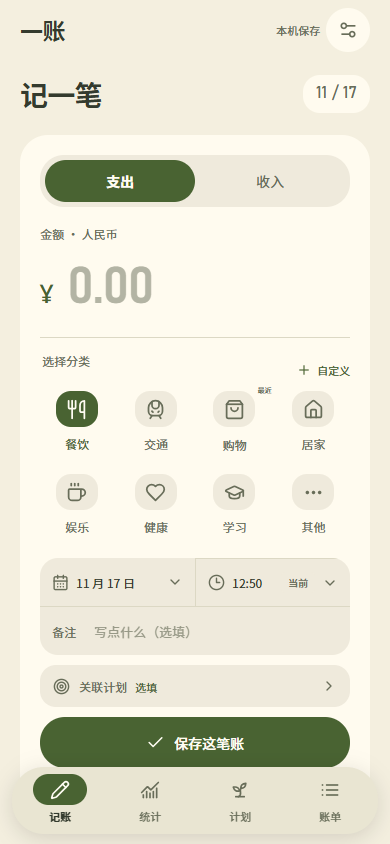
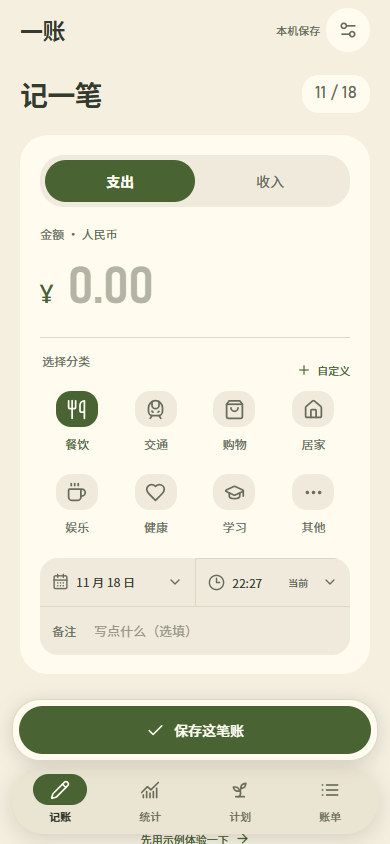
docs: prepare 1.1.1 mobile record release

diff --git a/README.md b/README.md
@@ -4,7 +4,7 @@
 
 **[下载最新 Android APK](https://github.com/junnhwan/wanjune-ledger/releases/latest)** · Android 7.0 及以上 · 无需账号 · 离线记账
 
-最新版本：[1.1.0（10）](https://github.com/junnhwan/wanjune-ledger/releases/tag/v1.1.0-10)。全新安卓界面与暖纸浅色，新增攒钱／收入／花费计划，以及可保存和分享的排版图片。
+[一账 1.1.1（11）](https://github.com/junnhwan/wanjune-ledger/releases/tag/v1.1.1-11) 已发布。手机记账的保存按钮固定在导航或键盘上方，金额聚焦时用底线与光标提示。
 
 ## 主要功能
 
@@ -36,7 +36,7 @@
 
 从上方下载入口选择正式 `.apk`，按 Android 系统提示安装。已安装用户也可在设置中检查更新、下载并交给系统安装。
 
-可使用[加速下载 1.1.0 APK](https://gh-proxy.org/https://github.com/junnhwan/wanjune-ledger/releases/download/v1.1.0-10/yizhang-1.1.0-10-release.apk)，也可从上方官方发布页下载。
+可使用[加速下载 1.1.1 APK](https://gh-proxy.org/https://github.com/junnhwan/wanjune-ledger/releases/download/v1.1.1-11/yizhang-1.1.1-11-release.apk)，也可从上方官方发布页下载。
 
 查看任意时间段：进入「统计 → 自定义」，分别选择开始和结束日期，例如 10 月 4 日至 11 月 4 日（包含两端，共 32 天）。汇总、分类、趋势和明细会使用同一范围；月度预算切回「按月」查看。
 
